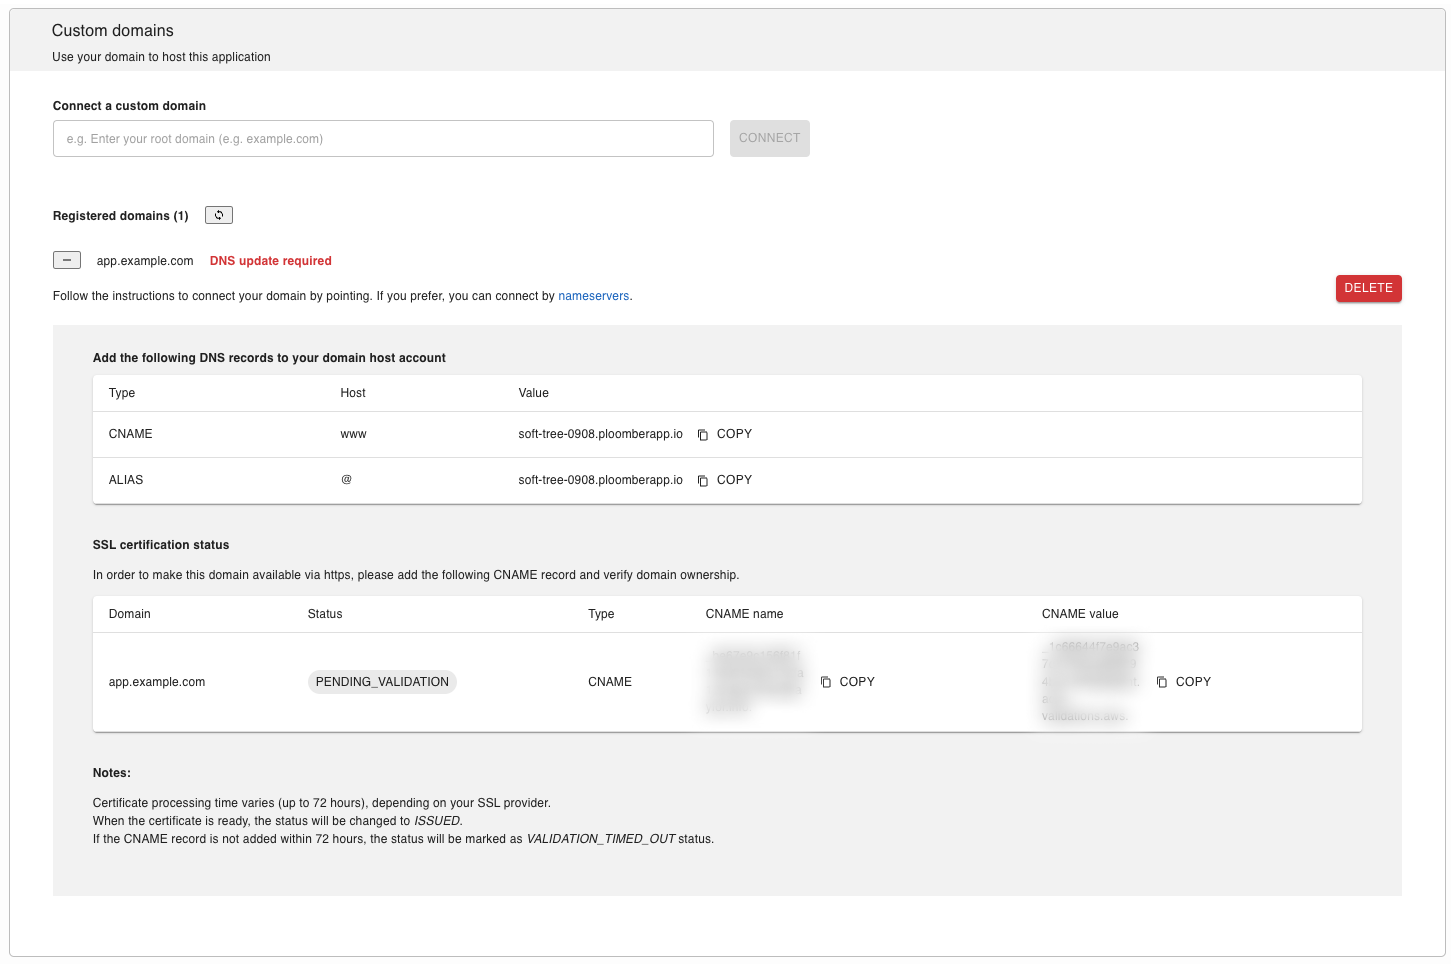
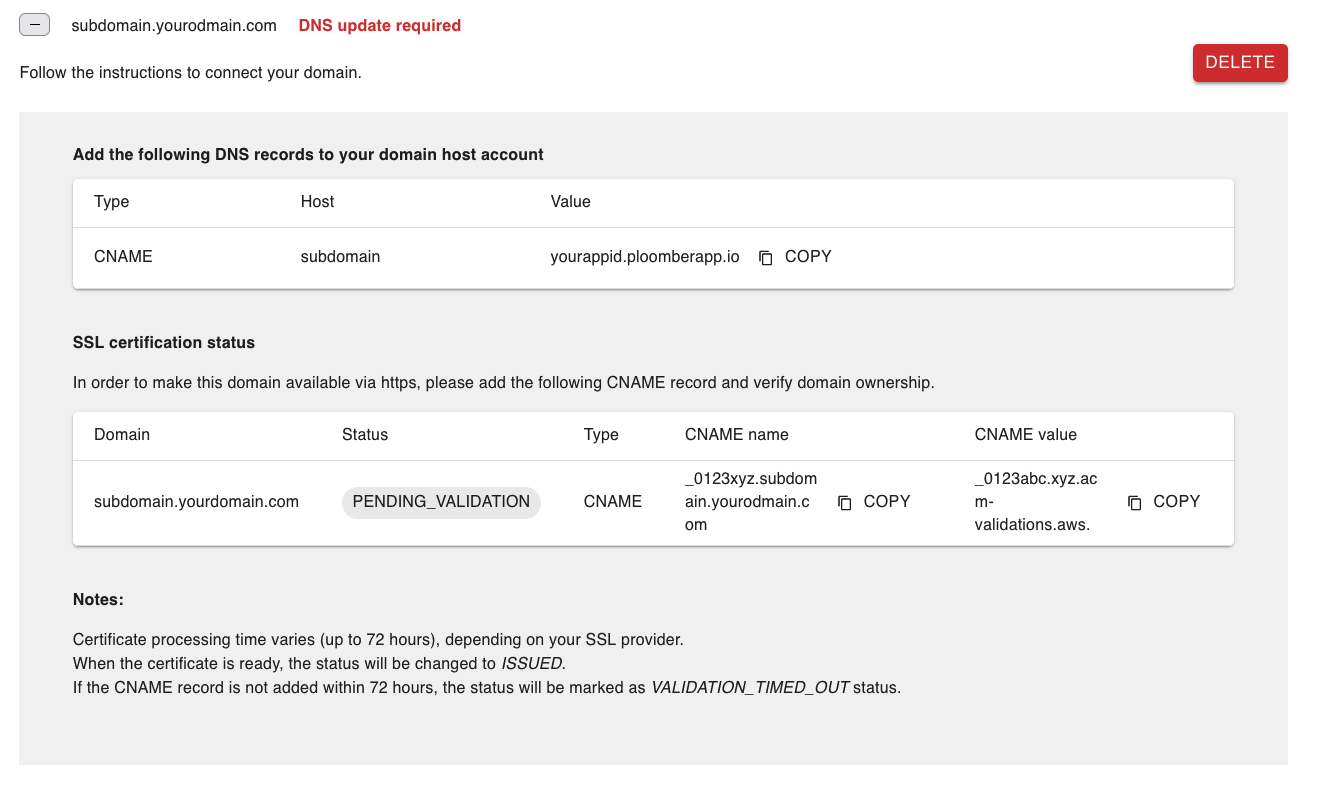
updates domain/subdomain guide

diff --git a/doc/user-guide/custom-domains.md b/doc/user-guide/custom-domains.md
@@ -6,7 +6,7 @@ Custom domains/subdomains are a [paid feature.](../pricing/overview.md)
 
 By default, applications are available under `project-id.ploomberapp.io`, where `project-id` is a randomly generated string.
 
-You can customize the [`project-id`](custom-ploomber-subdomain) or [bring your own domain](custom-domain).
+You can customize the [`project-id`](custom-ploomber-subdomain) or bring your [own domain](custom-domain) or [custom subdomain](custom-subdomain).
 
 (custom-ploomber-subdomain)=
 ## `{custom}.ploomberapp.io`
@@ -17,12 +17,9 @@ If you would like a custom `ploomberapp.io` subdomain, like `my-custom-app.ploom
 
 
 (custom-domain)=
-## Adding a custom domain/subdomain
+## Adding a custom domain
 
-(new-custom-domain-with-app)=
-### Adding a custom domain
-
-To deploy an app at `yourdomain.com`, you first need to ensure it's deployed and available (the **VIEW APPLICATION** button should be enabled)
+To deploy an app at `yourdomain.com`, ensure it's deployed and available (the **VIEW APPLICATION** button should be enabled):
 
 ![](../static/custom-domains/view-application.png)
 
@@ -30,26 +27,62 @@ To deploy an app at `yourdomain.com`, you first need to ensure it's deployed and
 If your application is not ready and publicly available, the button will be disabled and you won't be able to connect a custom domain to it.
 ```
 
-Go to the application settings page by clicking on the **SETTINGS** button. Next, in the **Custom domains** section, enter your domain name and click **CONNECT**.
+Go to the application settings page by clicking on `...` and then, on the **SETTINGS** button:
+
+![](../static/custom-domains/settings-button.png)
+
+Next, in the **Custom domains** section, enter your domain, and click **CONNECT**:
 
 ![](../static/custom-domains/custom-domains-section.png)
 
-Once you click on **CONNECT**, a window like this will display:
+
+A new window will display showing the DNS records you need to add ([see the updating your DNS records](update-dns-records) section for instructions):
 
 ![](../static/custom-domains/pointing-change-dns-records.png)
 
 
-These are the three records you need to add:
+You must add three DNS records:
 
-1. `CNAME` record: `www` as host and `{yourapp}.ploomberapp.io` as value
-2. `ALIAS` record: `@` host `{yourapp}.ploomberapp.io` as value
-3. `CNAME` record: with the shown **CNAME name** and **CNAME value** (as displayed in the **SSL certification status** section, see below)
+1. A `CNAME` record: `www` as host, and `yourapp.ploomberapp.io` as value (replace `yourapp` with your actual app ID)
+2. A `ALIAS` record: `@` as host, and `yourapp.ploomberapp.io` as value (replace `yourapp` with your actual app ID)
+3. A `CNAME` record: with the shown **CNAME name** and **CNAME value** (as displayed in the **SSL certification status** section)
 
-![](../static/custom-domains/ssl-cname-record.png)
+(custom-subdomain)=
+## Adding a custom subdomain
+
+To deploy an app at `subdomain.yourdomain.com`, you first need to ensure it's deployed and available (the **VIEW APPLICATION** button should be enabled)
+
+![](../static/custom-domains/view-application.png)
+
+```{warning}
+If your application is not ready and publicly available, the button will be disabled and you won't be able to connect a custom subdomain to it.
+```
+
+Go to the application settings page by clicking on `...` and then, on the **SETTINGS** button:
+
+![](../static/custom-domains/settings-button.png)
+
+Next, in the **Custom domains** section, enter the subdomain, for example: `subdomain.yourdomain.com`.
+
+![](../static/custom-domains/subdomain-settings.png)
+
+Then, click `CONNECT`:
+
+![](../static/custom-domains/subdomain-settings-selected.png)
+
+A new window will display showing the DNS records you need to add ([see the updating your DNS records](update-dns-records) section for instructions):
+
+![](../static/custom-domains/subdomain-dns.png)
+
+
+You must add two records:
+
+1. `CNAME` record: theh subdomain you want to add as the (e.g., if you want to connect `subdomain.yourdomain.com`, then, you must enter `subdomain` as the host) and `yourapp.ploomberapp.io` as value (where `yourapp` is the ID assigned to your application)
+3. `CNAME` record: with the shown **CNAME name** and **CNAME value** (as displayed in the **SSL certification status** section)
 
 
 (update-dns-records)=
-### Updating DNS records
+## Updating DNS records
 
 ```{note}
 If you have issues modifying your DNS records, send us an email ([contact@ploomber.io](mailto:contact@ploomber.io)) and we'll help you. You might also check the [troubleshooting](troubleshooting-dns) section.
@@ -87,81 +120,19 @@ if you encounter errors, remove the root domain from the value. (see this
 DNS record changes might take up to 48 hours to take effect. In the meantime, your application will be accessible from the `ploomberapp.io` URL
 ```
 
-
-### Adding a custom subdomain
-
-To deploy an app at `subdomain.yourdomain.com`, you first need to ensure the main domain you want to link to (e.g., `yourdomain.com`) is [registered properly](new-custom-domain-no-app).
-
-Once we have the main domain registered, we can go to the application settings page by clicking on the **SETTINGS** button. 
-
-![](../static/custom-domains/view-application.png)
-
-
-Next, in the **Custom domains** section, click the text field and you should see your new domain there. It means the domain is available, and you can host your application on a subdomain of it.
-
-![](../static/custom-domains/subdomain-settings.png)
-
-
-```{warning}
-If you don't see your main domain in there, it means something went wrong and you probably won't be able to use a subdomain. In this case, please contact us via [contact@ploomber.io](mailto:contact.ploomber.io) or our public [slack channel](https://ploomber.io/community/)
-```
-
-
-1. Select the domain, type your subdomain (e.g., `app.example.com`), and click connect:
-
-![](../static/custom-domains/subdomain-settings-selected.png)
-
-2. Once the subdomain is registered successfully, please complete the process by [updating your DNS records](update-dns-records)
-
-![](../static/custom-domains/subdomain-dns.png)
-
-
-(new-custom-domain-no-app)=
-### New custom domain without an app 
-
-Users have the option to create custom domains without associating them directly with any specific application. This option allows users to host multiple applications under different subdomains, such as `app1.example.com`, `app2.example.com`, and `app3.example.com`, while the main domain, `example.com`, remains independent of any hosted application.
-
-1. Go to `Account` section 
-
-![](../static/custom-domains/navigation-bar.png)
-
-2. In the `Domains` section, you can view your registered domains. Currently, there are no registered domains.
-To add a new domain, click on `NEW DOMAIN` and wait for the popup.
-
-![](../static/custom-domains/domains-section.png)
-
-3. Type your main domain, e.g., `example.com` and click `CREATE`
-
-![](../static/custom-domains/new-global-domain-popup.png)
-
-4. Once it's done you should be able to see your new domain under `Domains`
-
-![](../static/custom-domains/domains-section-with-domain.png)
-
-5. Update your DNS records
-
-First, open the information panel by clicking this icon next to your domain: ![](../static/custom-domains/info-icon.png)
-
-![](../static/custom-domains/global-domains-sidebar.png)
-
-As you can see, the domain has been created, and there is no attached application.
-To make the domain availble via SSL, we need to add one DNS record as described in the information panel.
-
-Please follow these instructions on how to [update your DNS records](update-dns-records).
-
 (troubleshooting-dns)=
-### Troubleshooting DNS errors
+## Troubleshooting DNS errors
 
 These are the most common errors.
 
-#### Server Not Found
+### Server Not Found
 
 ![](../static/custom-domains/domains-server-not-found.png)
 
 You'll see this error if you're missing the DNAME record that points from your domain (or subdomain) to the `ID.ploomberapp.io` URL, ensure you add it. Give it some time since DNS records take some time to update. If issues persist, contact us at [contact@ploomber.io](mailto:contact@ploomber.io).
 
 
-#### Potential Security Risk Ahead
+### Potential Security Risk Ahead
 
 ![](../static/custom-domains/domains-ssl-error.png)
 
